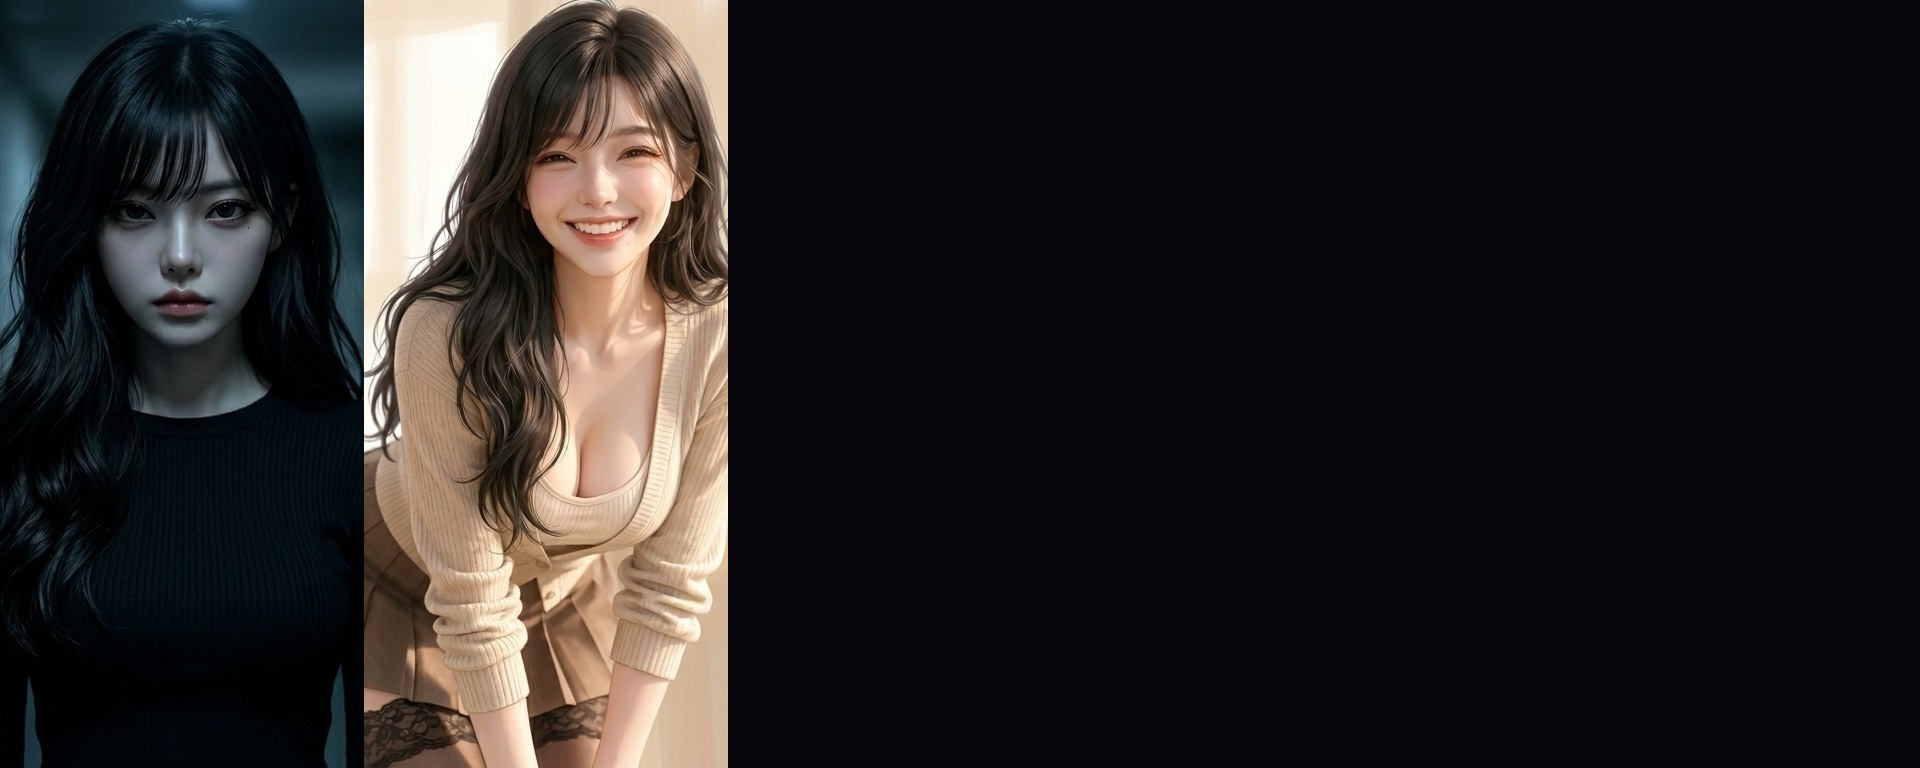
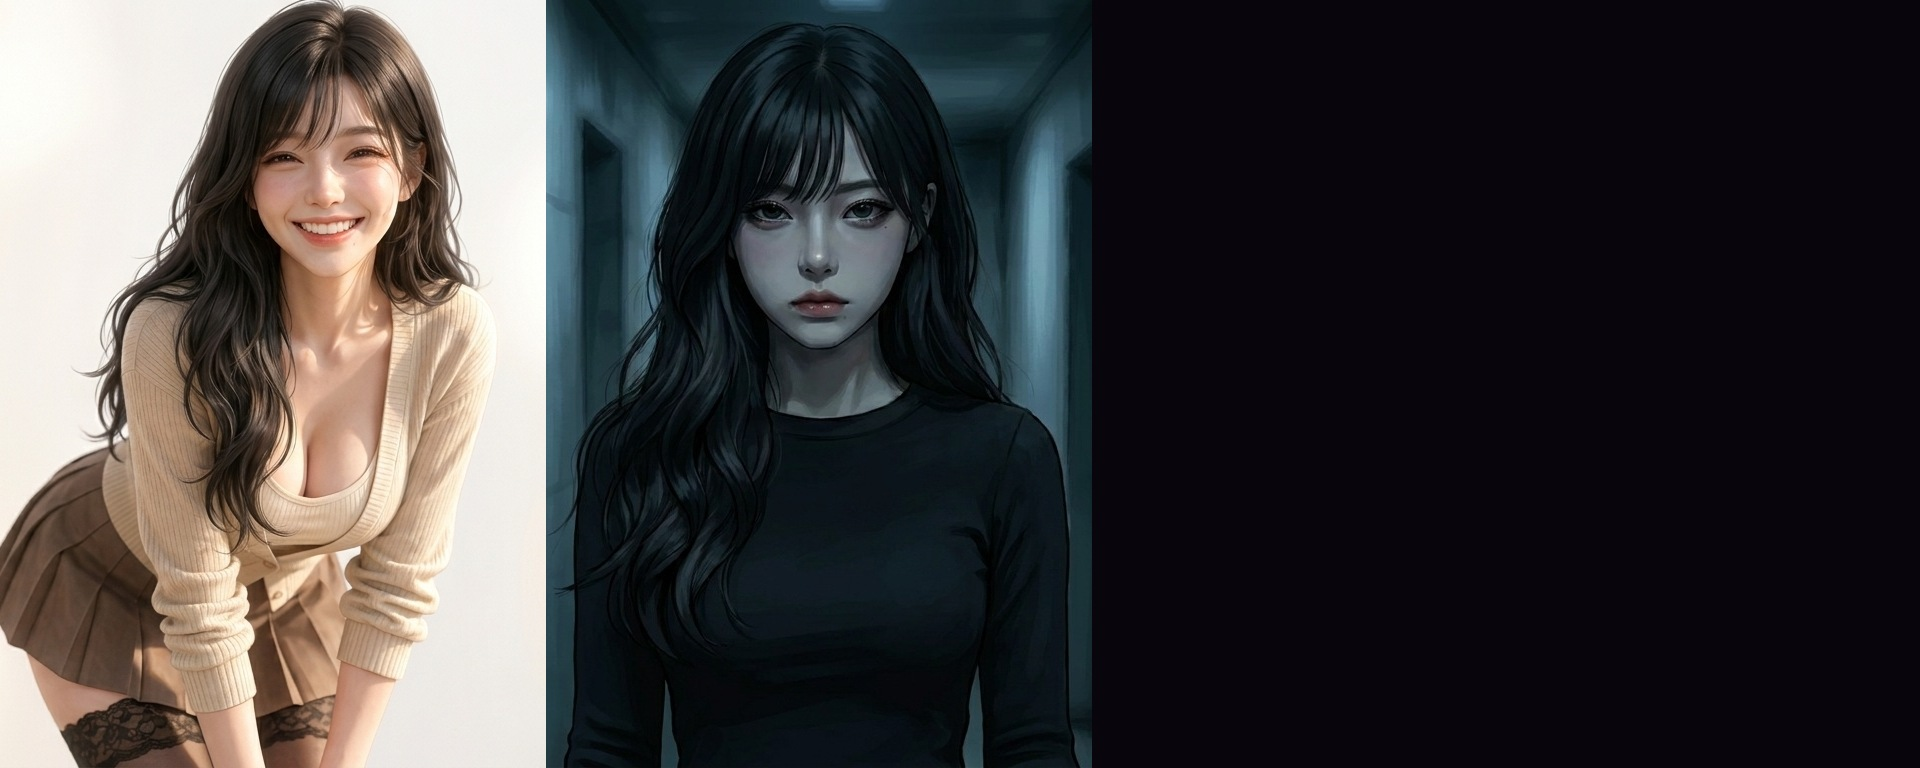
v45 Phase05 BG 재합성 · 웃음(좌)+얀데레(우) + bg-position:left
v45 처리된 얀데레 소스 사용, 546px씩 절반 구성
background-position:left center로 두 얼굴 모두 viewport에 노출

diff --git a/pre-register/v45-lp-wide.html b/pre-register/v45-lp-wide.html
@@ -608,7 +608,7 @@ em{font-style:italic;color:var(--accent)}
 
 <!-- ===== PHASE 05 · 선택에 따라 달라지는 기억들 · 5 링크드 챗 ===== -->
 <section class="phase" style="--bar-color:var(--d-indie)">
-  <div class="phase-bg" style="background-image:url('./signup-assets/scenes/bg/v45_p5_bg_contrast.jpg')"></div>
+  <div class="phase-bg" style="background-image:url('./signup-assets/scenes/bg/v45_p5_bg_contrast.jpg');background-position:left center"></div>
   <div class="phase-text">
     <div class="phase-step">PHASE 05 <b>·</b> LINKED</div>
     <h2 class="phase-h">당신의 선택에 따라 · <em>달라지는 기억들</em></h2>
@@ -819,6 +819,7 @@ document.getElementById('dday').textContent = '17';
 
 </body>
 </html>
+
 
 
 

diff --git a/pre-register/v45-lp-wide-ja.html b/pre-register/v45-lp-wide-ja.html
@@ -608,7 +608,7 @@ em{font-style:italic;color:var(--accent)}
 
 <!-- ===== PHASE 05 · Memories that shift with choice · 5 linked chats ===== -->
 <section class="phase" style="--bar-color:var(--d-indie)">
-  <div class="phase-bg" style="background-image:url('./signup-assets/scenes/bg/v45_p5_bg_contrast.jpg')"></div>
+  <div class="phase-bg" style="background-image:url('./signup-assets/scenes/bg/v45_p5_bg_contrast.jpg');background-position:left center"></div>
   <div class="phase-text">
     <div class="phase-step">PHASE 05 <b>·</b> LINKED</div>
     <h2 class="phase-h"><em>選択によって変わっていく、</em>記憶たち</h2>
@@ -820,6 +820,7 @@ document.getElementById('dday').textContent = '17';
 
 </body>
 </html>
+
 
 
 

diff --git a/pre-register/v45-lp-wide-en.html b/pre-register/v45-lp-wide-en.html
@@ -608,7 +608,7 @@ em{font-style:italic;color:var(--accent)}
 
 <!-- ===== PHASE 05 · Memories that shift with choice · 5 linked chats ===== -->
 <section class="phase" style="--bar-color:var(--d-indie)">
-  <div class="phase-bg" style="background-image:url('./signup-assets/scenes/bg/v45_p5_bg_contrast.jpg')"></div>
+  <div class="phase-bg" style="background-image:url('./signup-assets/scenes/bg/v45_p5_bg_contrast.jpg');background-position:left center"></div>
   <div class="phase-text">
     <div class="phase-step">PHASE 05 <b>·</b> LINKED</div>
     <h2 class="phase-h">Memories that shift · <em>with your choice</em></h2>
@@ -821,6 +821,7 @@ document.getElementById('dday').textContent = '17';
 
 </body>
 </html>
+
 
 
 
